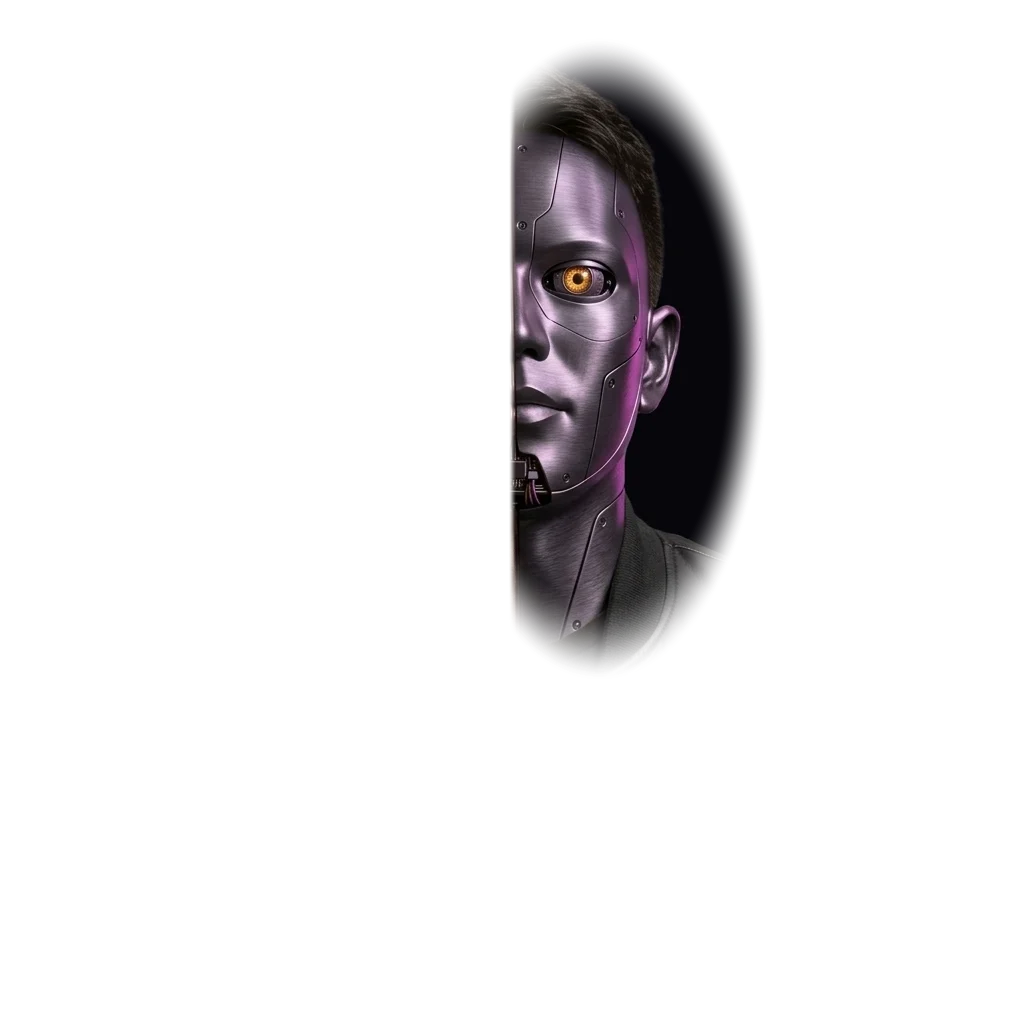
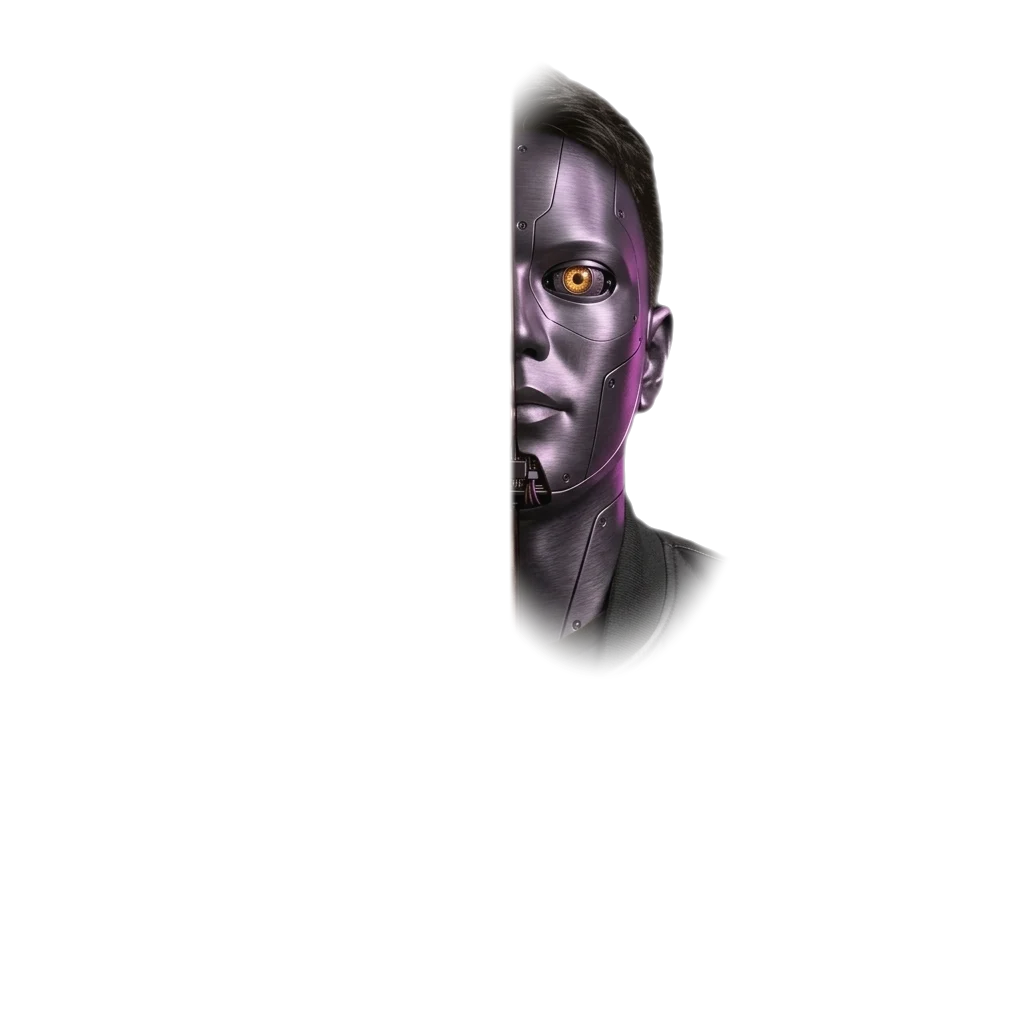
Speak sooner, and cut the cyborg half to the figure
The twin now speaks 1.2 seconds after the page is interactive (about 1.7s in
total) instead of waiting for the full load plus 3 seconds; the voice starts
downloading immediately and it still never starts on audio that would stall.
The cyborg overlay is now masked by the portrait's own cutout, choked 2px, so
the Gemini image's black backdrop no longer shows as a dark shadow beside the
head on the violet mobile hero.

Changed region(s): [[0.5312, 0.0312, 0.75, 0.5625]]

diff --git a/src/components/v3/TwinVoice.tsx b/src/components/v3/TwinVoice.tsx
@@ -7,12 +7,14 @@ import { ENVELOPE, ENVELOPE_FPS } from "./twinEnvelope";
 // The AI twin wakes up and introduces itself, with no buttons on screen.
 //
 // Order of events:
-//   1. Nothing starts until the page has finished loading, then 3 more
-//      seconds pass, the audio can play through without stalling and the
-//      cyborg overlay has decoded. On a slow connection it waits; if the
-//      audio is still not ready after 12 seconds the intro is skipped (the
-//      cyborg half still wakes, silently). It also waits until the hero is on
-//      screen and the tab is visible.
+//   1. The voice (156KB) and the cyborg overlay (31KB) start downloading the
+//      moment the page is interactive. The twin speaks 1.2 seconds later,
+//      as the hero intro settles, or as soon as both have arrived if that
+//      takes longer: it never starts on audio that would stall. On a very
+//      slow connection, if the audio is still not ready after 12 seconds the
+//      intro is skipped (the cyborg half still wakes, silently). It also
+//      waits until the hero is on screen and the tab is visible.
+//      (JB found load + 3 seconds too slow, 2026-10-02.)
 //   2. The right half of the face glitches into the cyborg and STAYS that
 //      way for the rest of the visit: John Boy on the left, his AI on the
 //      right. The live tag says which is which.
@@ -33,7 +35,7 @@ import { ENVELOPE, ENVELOPE_FPS } from "./twinEnvelope";
 
 const SRC = "/v3/twin-intro.mp3";
 const CYBORG = "/v3/jb-cyborg.webp";
-const START_DELAY_MS = 3000;
+const START_DELAY_MS = 1200;
 const READY_TIMEOUT_MS = 12000;
 const SESSION_KEY = "v3-twin-heard";
 
@@ -185,15 +187,9 @@ export default function TwinVoice() {
     };
     window.addEventListener("keydown", onKey);
 
-    // ---- the gate: loaded + 3s, audio ready, cyborg decoded, in view ----
-    const pageLoaded = new Promise<void>((res) => {
-      if (document.readyState === "complete") res();
-      else window.addEventListener("load", () => res(), { once: true });
-    });
-    const delay = pageLoaded.then(() => new Promise<void>((res) => window.setTimeout(res, START_DELAY_MS)));
-    // The audio is only requested once the page itself has loaded, so it
-    // never competes with the hero for bandwidth.
-    const audioReady = pageLoaded.then(
+    // ---- the gate: 1.2s, audio ready, cyborg decoded, in view ----
+    const delay = new Promise<void>((res) => window.setTimeout(res, START_DELAY_MS));
+    const audioReady = Promise.resolve().then(
       () =>
         new Promise<boolean>((res) => {
           const t = window.setTimeout(() => res(false), READY_TIMEOUT_MS);
